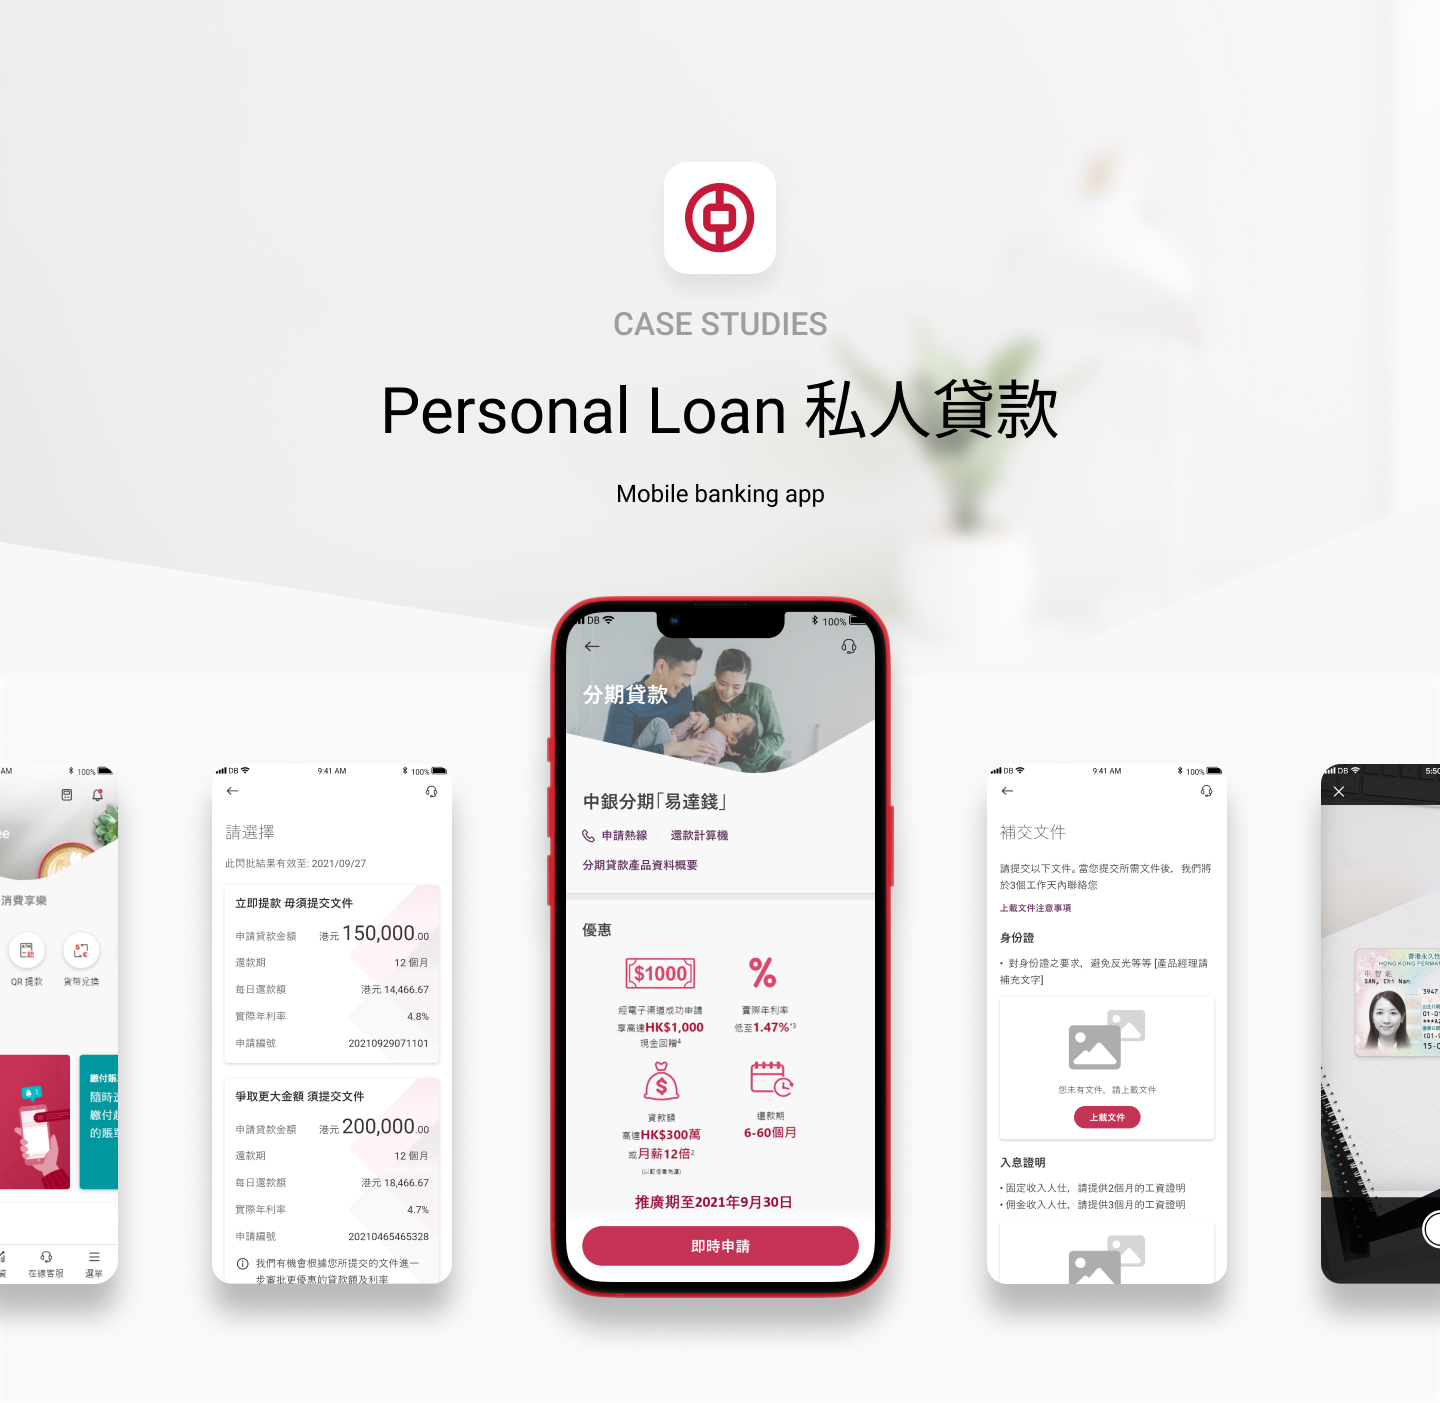
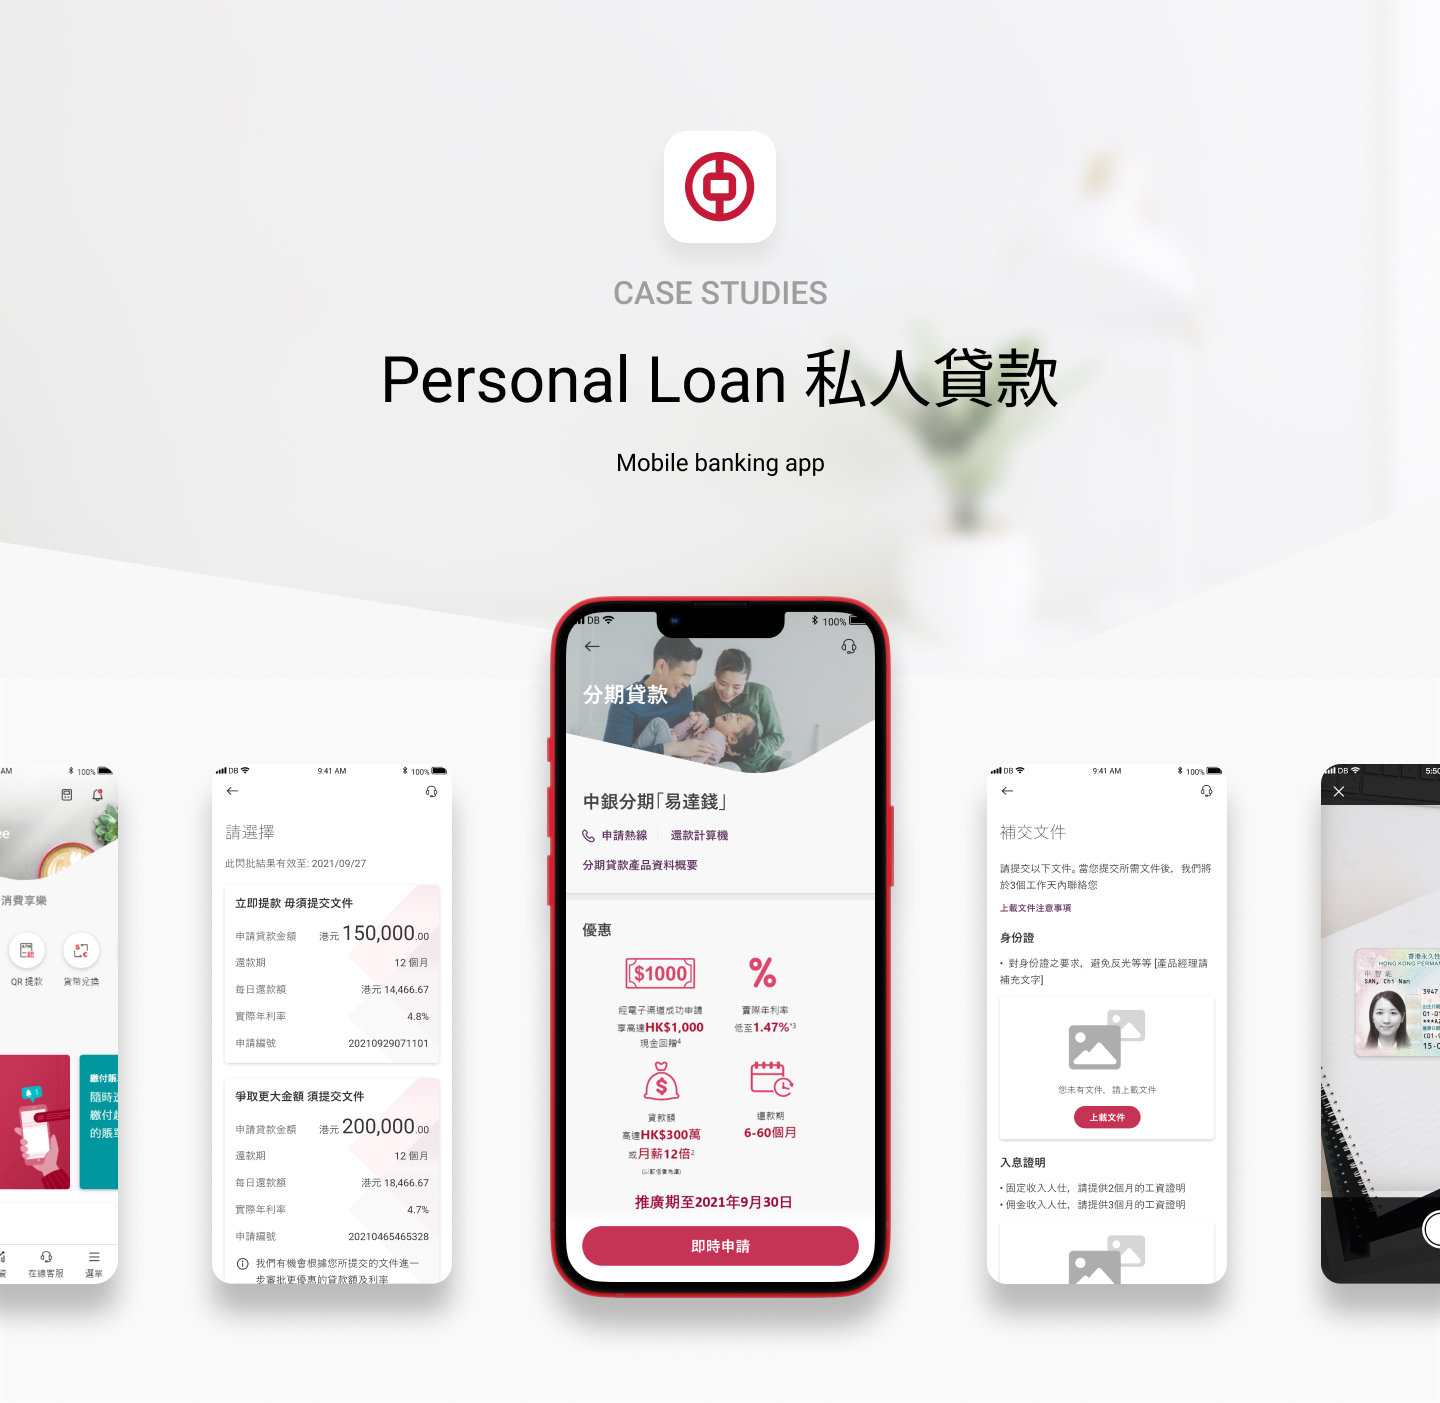
commit

Changed region(s): [[0.25, 0.0919, 0.75, 0.3678]]

diff --git a/style.css b/style.css
@@ -409,7 +409,7 @@ main {
 
 .textContainer h2 {
   font-size: var(--fs-800);
-  font-weight: var(--fw-regular);
+  font-weight: var(--fw-semi-bold);
   margin-bottom: 10px;
 }
 
@@ -462,7 +462,7 @@ main {
 }
 
 .textContainer .appIcon {
-  margin: 0 0 -30px -42px;
+  margin-bottom: 24px;
 
 }
 
